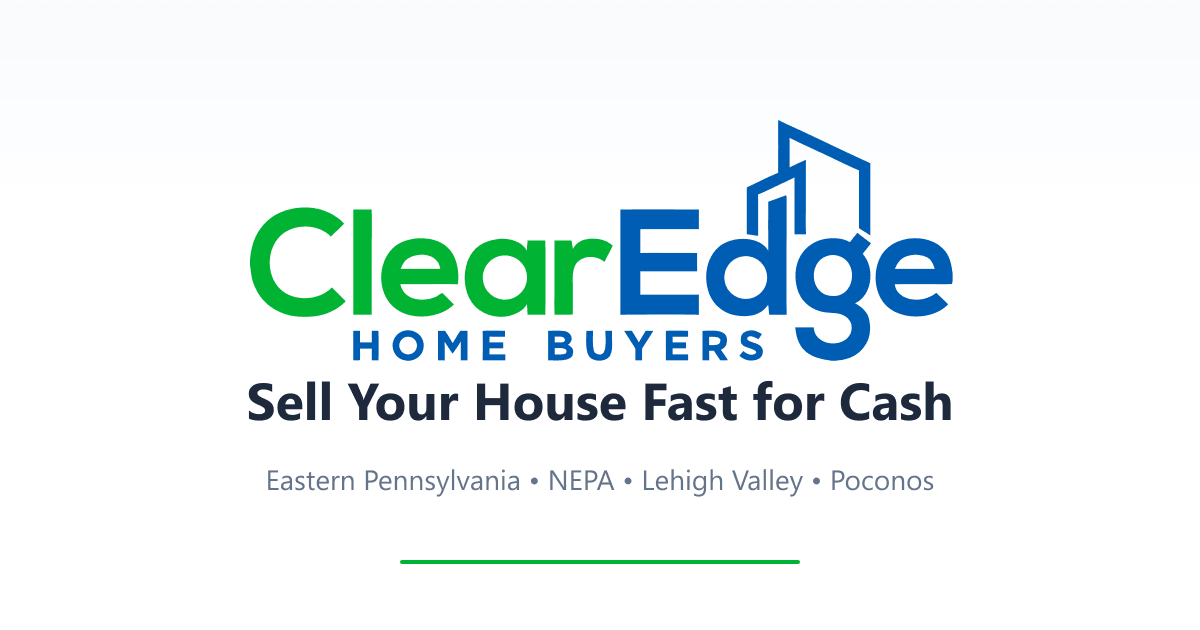
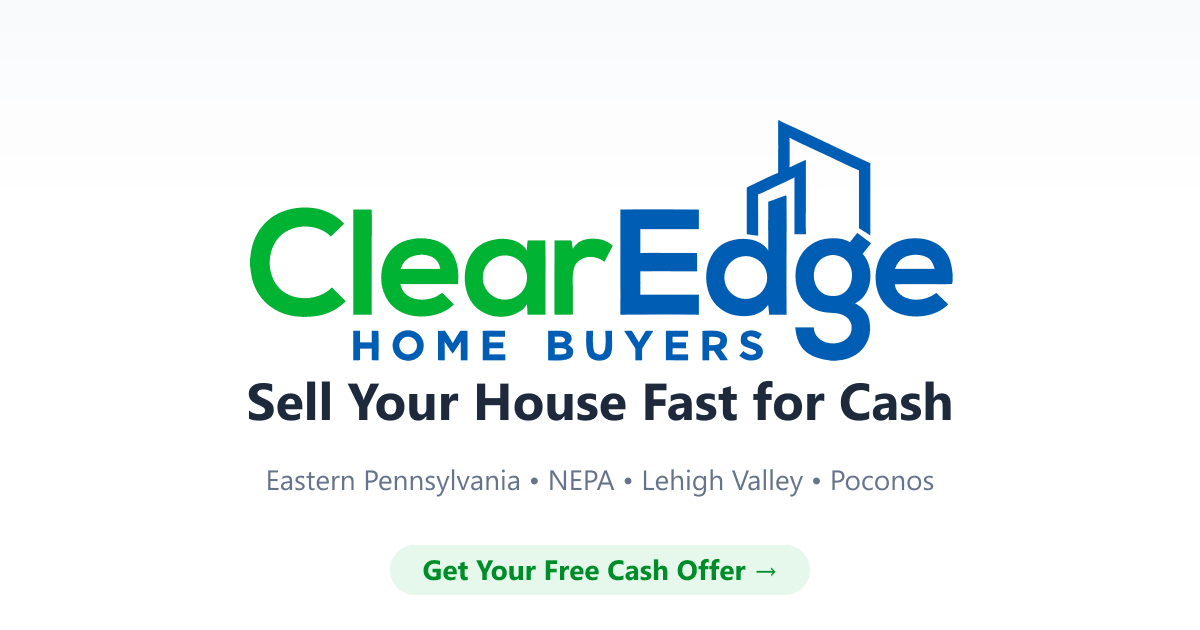
Update OG title to 56 chars, add CTA to OG image
1. Updated OG title to "Sell Your PA House Fast for Cash | ClearEdge Home Buyers"
   - Updated in page title, openGraph.title, and twitter.title

2. Added CTA to OG image:
   - "Get Your Free Cash Offer →" at bottom
   - Pill background: #e6f7eb (light green)
   - Text: #008a29 (brand green), 28px, bold
   - Centered, 50px from bottom

Changed region(s): [[0.3083, 0.8444, 0.6783, 0.9651]]

diff --git a/src/app/page.tsx b/src/app/page.tsx
@@ -33,11 +33,11 @@ import { V0ClosingSeo } from '@/components/v0-closing-seo'
 import { V0Footer } from '@/components/v0-footer'
 
 export const metadata: Metadata = {
-  title: "Sell Your PA House Fast for Cash | ClearEdge",
+  title: "Sell Your PA House Fast for Cash | ClearEdge Home Buyers",
   description: "Get a fair cash offer in 24 hours. No repairs, no agents, no fees. ClearEdge has helped 200+ Eastern PA homeowners since 2016.",
   keywords: ["sell house fast Pennsylvania", "cash home buyers PA", "we buy houses Scranton", "sell house as-is Allentown", "cash offer Lehigh Valley", "sell inherited house PA"],
   openGraph: {
-    title: "Sell Your PA House Fast for Cash | ClearEdge",
+    title: "Sell Your PA House Fast for Cash | ClearEdge Home Buyers",
     description: "Get a fair cash offer in 24 hours. No repairs, no agents, no fees. Serving NEPA, Lehigh Valley & Poconos since 2016.",
     url: "https://www.clearedgehomebuyers.com",
     siteName: "ClearEdge Home Buyers",
@@ -54,7 +54,7 @@ export const metadata: Metadata = {
   },
   twitter: {
     card: "summary_large_image",
-    title: "Sell Your PA House Fast for Cash | ClearEdge",
+    title: "Sell Your PA House Fast for Cash | ClearEdge Home Buyers",
     description: "Get a fair cash offer in 24 hours. No repairs, no agents, no fees. Serving NEPA, Lehigh Valley & Poconos since 2016.",
     images: ['https://www.clearedgehomebuyers.com/og-image.png'],
   },
